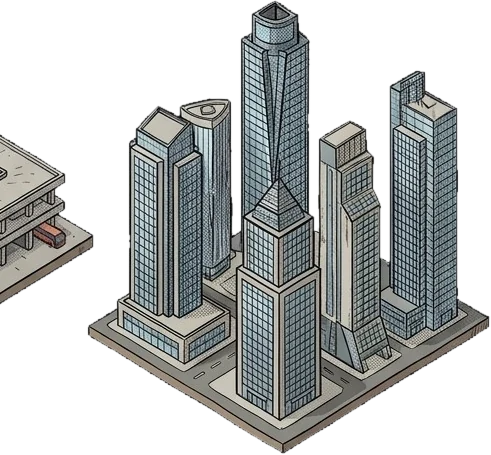
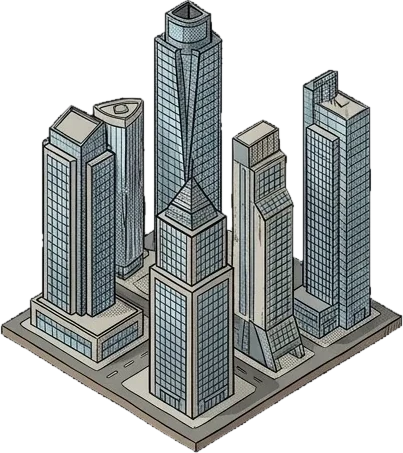
Simge yapılar alanın içinde kendi oranına uyan parçaya oturur (havalimanı yamulmaz); plaza ve VW Arena görsellerindeki kırıntılar temizlendi; tünel ağzı üstten çizimde; binaları yalnızca oyuncu, yolu ve yakın yolcular saydamlaştırır; turistler yolculuk olaylarında kırık Türkçe-İngilizce konuşur
Claude-Session: https://claude.ai/code/session_01Kh33F5PeHx4QGU37XqQR3p

diff --git a/src/render/iso.ts b/src/render/iso.ts
@@ -540,16 +540,10 @@ function landmarks(): Lm[] {
   if (L['Havalimanı terminali'])
     for (const a of (MAP && MAP.havalimanlari) || []) {
       const [ax0, , ax1, ay1] = a,
-        Wt = Math.min(12, (ax1 - ax0) * 0.5);
-      LMS.push({ name: 'Havalimanı terminali', x: (ax0 + ax1) / 2 - Wt / 2, y: ay1 - 5, w: Wt, h: 5 });
+        Wt = Math.min(6, (ax1 - ax0) * 0.5); // görselin tabanı kareye yakın: alan da öyle
+      LMS.push({ name: 'Havalimanı terminali', x: (ax0 + ax1) / 2 - Wt / 2, y: ay1 - 5.5, w: Wt, h: 5.5 });
     }
-  // Avrasya Tüneli ağızları
-  if (L['Avrasya Tüneli girişi'])
-    for (const [tx, ty] of [
-      [92.5, 184.6],
-      [152.5, 182.6],
-    ])
-      LMS.push({ name: 'Avrasya Tüneli girişi', x: tx - 2, y: ty - 1.5, w: 4, h: 3 });
+  // Avrasya Tüneli ağızları 2.5D çizimle değil, zemindeki üstten çizimle kalır (suyun üstünde havada duruyordu)
   return LMS;
 }
 const lmReady = (n: string) => {
@@ -584,6 +578,25 @@ function drawLmPlate(m: Lm) {
   ctx.lineWidth = Math.max(1, S * 0.04);
   ctx.stroke();
 }
+/** alanın içinde, ekrandaki taban kenarlarının oranı (sol→alt / alt→sağ) r olan en büyük ortalanmış parça */
+function lmSub(m: Lm, r: number): Lm {
+  const D = lmDiamond(m),
+    dist = (p: number[], q: number[]) => Math.hypot(p[0] - q[0], p[1] - q[1]),
+    cur = dist(D.left, D.bot) / dist(D.bot, D.right);
+  let best = m,
+    err = Math.abs(Math.log(cur / r));
+  for (const ax of ['w', 'h'] as const)
+    for (const f of [r / cur, cur / r]) {
+      if (f >= 1) continue;
+      const n = { ...m, [ax]: m[ax] * f } as Lm;
+      if (ax === 'w') n.x = m.x + (m.w - n.w) / 2;
+      else n.y = m.y + (m.h - n.h) / 2;
+      const E = lmDiamond(n),
+        e = Math.abs(Math.log(dist(E.left, E.bot) / dist(E.bot, E.right) / r));
+      if (e < err - 1e-6) ((best = n), (err = e));
+    }
+  return best;
+}
 /** 3x3 doğrusal denklem (Cramer) */
 function solve3(M: number[][], v: number[]): number[] | null {
   const det = (A: number[][]) =>
@@ -599,29 +612,36 @@ function solve3(M: number[][], v: number[]): number[] | null {
 function drawLandmark(m: Lm, draw = true): Box | null {
   const L = lmReady(m.name);
   if (!L) return null;
-  const { left, right, bot } = lmDiamond(m, 0.12);
   const W = L.w,
     H = L.h;
   const [xl, yl, xb, yb, xr, yr] = L.taban || [0, H * 0.75, W / 2, H, W, H * 0.75];
   // iki seçenek: düz ya da aynalı; tabanın oranı alana daha uygun olanı
   let best: { a: number; b: number; c: number; d: number; e: number; score: number } | null = null;
+  const ia = Math.hypot(xb - xl, yb - yl) || 1,
+    ib = Math.hypot(xr - xb, yr - yb) || 1;
+  let left: number[] = [0, 0],
+    right: number[] = [0, 0];
   for (const flip of [false, true]) {
     const l = flip ? [W - xr, yr] : [xl, yl],
       r = flip ? [W - xl, yl] : [xr, yr],
       bo = flip ? [W - xb, yb] : [xb, yb];
-    let a = (right[0] - left[0]) / (r[0] - l[0] || 1),
-      c = left[0] - a * l[0];
+    // alanın içinde görselin taban oranına uyan, ortalanmış parça (uzun alanda yamulmasın)
+    const sub = lmSub(m, flip ? ib / ia : ia / ib),
+      D = lmDiamond(sub, 0.12);
+    const { left: dl, right: dr, bot: db } = D;
+    let a = (dr[0] - dl[0]) / (r[0] - l[0] || 1),
+      c = dl[0] - a * l[0];
     const sol = solve3(
       [
         [l[0], l[1], 1],
         [bo[0], bo[1], 1],
         [r[0], r[1], 1],
       ],
-      [left[1], bot[1], right[1]],
+      [dl[1], db[1], dr[1]],
     );
     if (!sol) continue;
     let [b, d, e] = sol;
-    const score = Math.abs(Math.log(Math.max(1e-3, d / a))) + Math.abs(b / a);
+    const score = Math.abs(Math.log(Math.max(1e-3, d / a))) + Math.abs(b / a) + (1 - (sub.w * sub.h) / (m.w * m.h));
     if (flip) {
       // aynalı görselde kaynak x → W − x
       c = c + a * W;
@@ -629,7 +649,10 @@ function drawLandmark(m: Lm, draw = true): Box | null {
       e = e + b * W;
       b = -b;
     }
-    if (!best || score < best.score) best = { a, b, c, d, e, score };
+    if (!best || score < best.score) {
+      best = { a, b, c, d, e, score };
+      [left, right] = [dl, dr];
+    }
   }
   if (!best) return null;
   let { a, b, c, d, e } = best;
@@ -639,6 +662,21 @@ function drawLandmark(m: Lm, draw = true): Box | null {
     const d2 = clamp(d, ab * 0.5, ab * 1.6);
     e += (d - d2) * yb; // alt köşe yerinde kalsın
     d = d2;
+  }
+  // görselin tamamı (çatı çıkıntıları dahil) alanın genişliğine sığsın: alt köşe etrafında küçült
+  {
+    const bx = a * xb + c,
+      by = b * xb + d * yb + e,
+      x0 = Math.min(c, a * W + c),
+      x1 = Math.max(c, a * W + c),
+      f = Math.min(1, (bx - left[0]) / Math.max(1e-3, bx - x0), (right[0] - bx) / Math.max(1e-3, x1 - bx));
+    if (f < 1) {
+      a *= f;
+      c = bx + f * (c - bx);
+      b *= f;
+      d *= f;
+      e = by + f * (e - by);
+    }
   }
   const yf = clamp(yl + yr - yb, 0, H), // taban dörtgeninin üst köşesi: bunun altı basılmaz
     sqd = d * SQ_SIMGE,
@@ -807,6 +845,8 @@ interface Key {
   car?: number[] | null;
   /** yolcu: siluet olarak figürün kendi hattı çizilir */
   pax?: any;
+  /** önündeki binayı saydamlaştırır mı */
+  fade?: boolean;
 }
 /* ---- yolcunun neon hattı: figür ayrı tuvale çizilir, rengi neona boyanıp her yöne kaydırılarak
    arkasına basılır; böylece hat figürün kendi biçimini izler. Pahalı olduğu için sonuç yolcu başına
@@ -1139,7 +1179,7 @@ export function renderIso(t: number, dt: number) {
       : -1;
     if (sig !== lmState.sig) {
       lmState.sig = sig;
-      painterOpts.skipLm = sig >= 0 ? (n: string) => !!(lmReady(n) || bridgeReady(n)) : null;
+      painterOpts.skipLm = sig >= 0 ? (n: string) => n !== 'Avrasya Tüneli girişi' && !!(lmReady(n) || bridgeReady(n)) : null;
       buildMap();
     }
   }
@@ -1205,10 +1245,12 @@ export function renderIso(t: number, dt: number) {
   // önemli noktalar: oyuncu ve önündeki yol, yolcular, araçlar, varış yeri. Bunları kapatan binalar
   // saydamlaşır, arkada kalanlar binanın üstüne siluetle çizilir
   const keys: Key[] = [];
-  const key = (x: number, y: number, col: string, car?: number[] | null, z = 0.25, pax?: any) => {
+  // fade: bu nokta önündeki binayı saydamlaştırır (oyuncu, yolu, varış, yakın yolcular);
+  // diğerleri (uzak yolcular, öbür araçlar) binayı saydamlaştırmaz, yalnızca siluetle görünür
+  const key = (x: number, y: number, col: string, car?: number[] | null, z = 0.25, pax?: any, fade = true) => {
     if (!inView(x, y)) return;
     const [sx, sy] = proj(x, y, z);
-    keys.push({ x, y, d: depth(x, y), sx, sy, col, car, pax });
+    keys.push({ x, y, d: depth(x, y), sx, sy, col, car, pax, fade });
   };
   if (G && spriteMode()) {
     const P = G.player,
@@ -1221,10 +1263,12 @@ export function renderIso(t: number, dt: number) {
       const r = routeTo(Math.round(P.x), Math.round(P.y), P.carry.dx, P.carry.dy);
       for (let i = 1; i < Math.min(r.length, 12); i++) key(r[i][0], r[i][1], '', undefined, 0);
     }
-    for (const p of G.pax) if (p.state === 'wait' || p.state === 'talk') key(p.x, p.y, NEON, undefined, 0.25, p);
+    const near = (x: number, y: number) => Math.abs(x - P.x) + Math.abs(y - P.y) < 9;
+    for (const p of G.pax)
+      if (p.state === 'wait' || p.state === 'talk') key(p.x, p.y, NEON, undefined, 0.25, p, near(p.x, p.y));
     for (const e of G.ents)
       if (!e.isPlayer)
-        key(e.x, e.y, e.kind === 'police' ? '#1c7ed6' : e.kind === 'tag' ? '#ff922b' : '#ffc20e', e.dir || [1, 0]);
+        key(e.x, e.y, e.kind === 'police' ? '#1c7ed6' : e.kind === 'tag' ? '#ff922b' : '#ffc20e', e.dir || [1, 0], 0.25, undefined, false);
   }
   /** binanın ekran kutusu bir önemli noktayı kapatıyor mu (bina noktadan önde ve kutusu üstünde) */
   const covered: Set<Key> = new Set();
@@ -1239,7 +1283,7 @@ export function renderIso(t: number, dt: number) {
         k.sy > box.y0 &&
         k.sy < box.y1 - S * 0.15
       ) {
-        hit = true;
+        if (k.fade) hit = true;
         if (k.col) covered.add(k);
       }
     return hit;

diff --git a/src/dialog/rideEvents.ts b/src/dialog/rideEvents.ts
@@ -19,18 +19,21 @@ export async function rideEvent(p: Pax) {
     { svg: face(me, 'neutral'), name: 'Sen' },
     { svg: face(L, 'neutral'), name: L.name },
   ]);
+  // turist kırık Türkçe-İngilizce konuşur (olayın turist sürümü)
+  const tr = L.tourist && (o as any).turist ? (o as any).turist : null;
   const ch = await ask(
     L.name,
-    T(o.soru, v),
+    T(tr ? tr.soru : o.soru, v),
     o.secenekler.map((x) => ({ t: T(x.t, v), x })),
   );
-  const x = ch.x || o.secenekler[o.secenekler.length - 1];
+  const xi = ch.x ? o.secenekler.indexOf(ch.x) : o.secenekler.length - 1,
+    x = o.secenekler[xi];
   p.puanEk = (p.puanEk || 0) + x.puan;
   if (x.bahsis) G.money += x.bahsis;
   setCast([
     { svg: face(me, x.puan >= 0 ? 'smile' : 'nervous'), name: 'Sen' },
     { svg: face(L, x.puan >= 0 ? 'smile' : 'angry'), name: L.name },
   ]);
-  await say(L.name, T(x.cevap, v) + (x.bahsis ? ' ' + T(DLG.kariyer.olayBahsis, { bahsis: x.bahsis }) : ''));
+  await say(L.name, T(tr ? tr.cevap[xi] : x.cevap, v) + (x.bahsis ? ' ' + T(DLG.kariyer.olayBahsis, { bahsis: x.bahsis }) : ''));
   closePanel();
 }

diff --git a/src/sim/learn.ts b/src/sim/learn.ts
@@ -59,6 +59,7 @@ export function recall(input: string, prof: string): Learned | null {
   const scan = (list: Learned[], bonus: number) => {
     for (const x of list) {
       if (x.p && x.p !== prof) continue;
+      if (!x.p && prof === 'turist') continue; // herkese öğretilen Türkçe cevaplar turiste uymaz
       const sim = sentenceSim(input, x.s);
       if (sim < esik) continue;
       const sc = sim + bonus + (x.p ? 0.05 : 0);
